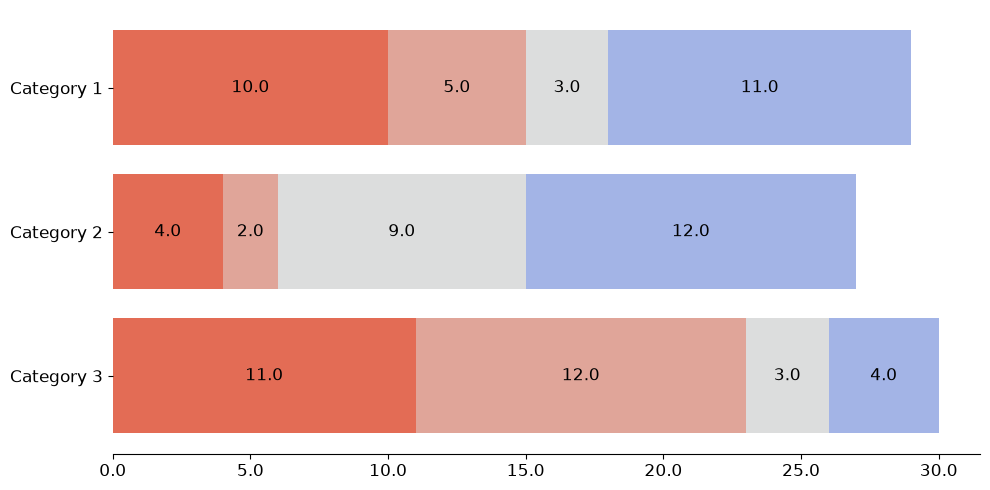
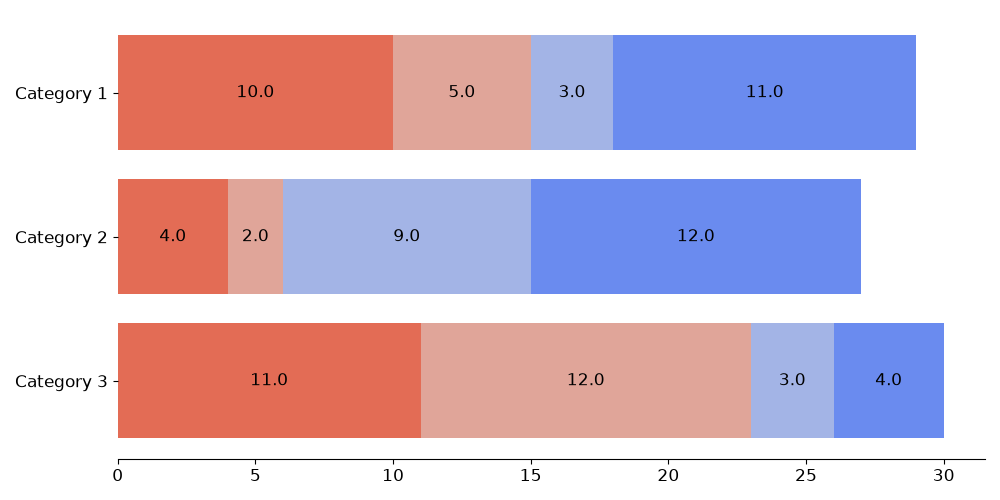
Docs(figs): Updated README figures.

diff --git a/example-code.py b/example-code.py
@@ -10,9 +10,9 @@ basic_plot.show()
 
 
 #Example Centered Plot
-results = {"Category 1": [10, 5, 3, 11], "Category 2": [4, 2, 9, 12], "Category 3": [11, 12, 3, 4]}
-series_labels = ["Series 1", "Series 2", "Series 3", "Series 4"]
-center_plot = stackedbarplots.centered(results, series_labels)
+results2 = {"Category 1": [10, 5, 3, 11, 5], "Category 2": [4, 2, 9, 12, 3], "Category 3": [11, 12, 3, 4, 2]}
+series_labels2 = ["Series 1", "Series 2", "Series 3", "Series 4", "Series 5"]
+center_plot = stackedbarplots.centered(results2, series_labels2)
 center_plot.render()
 center_plot.show()
 
